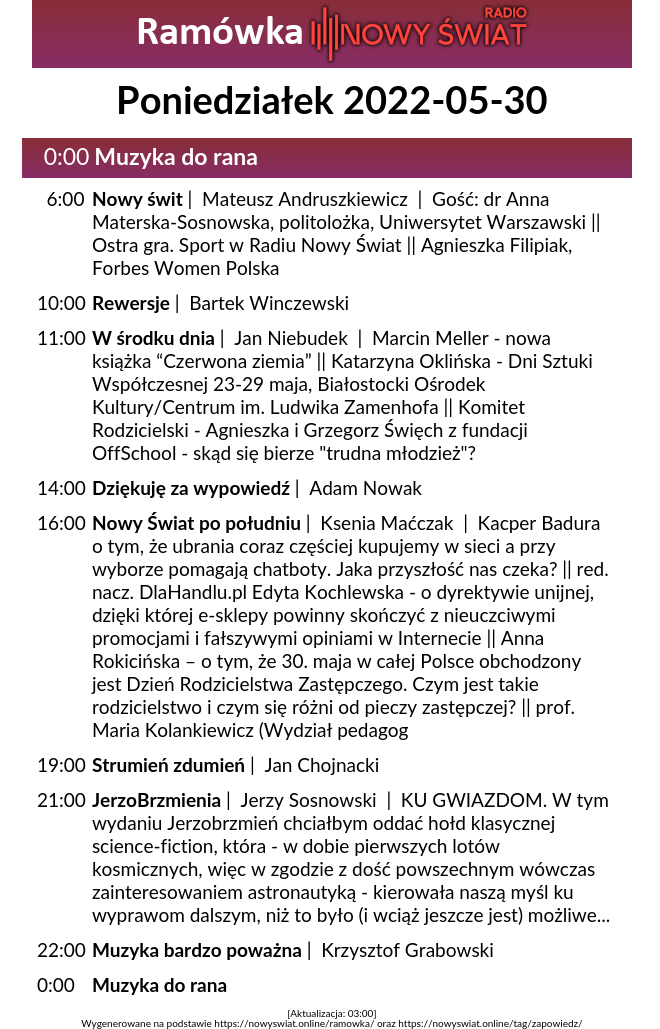
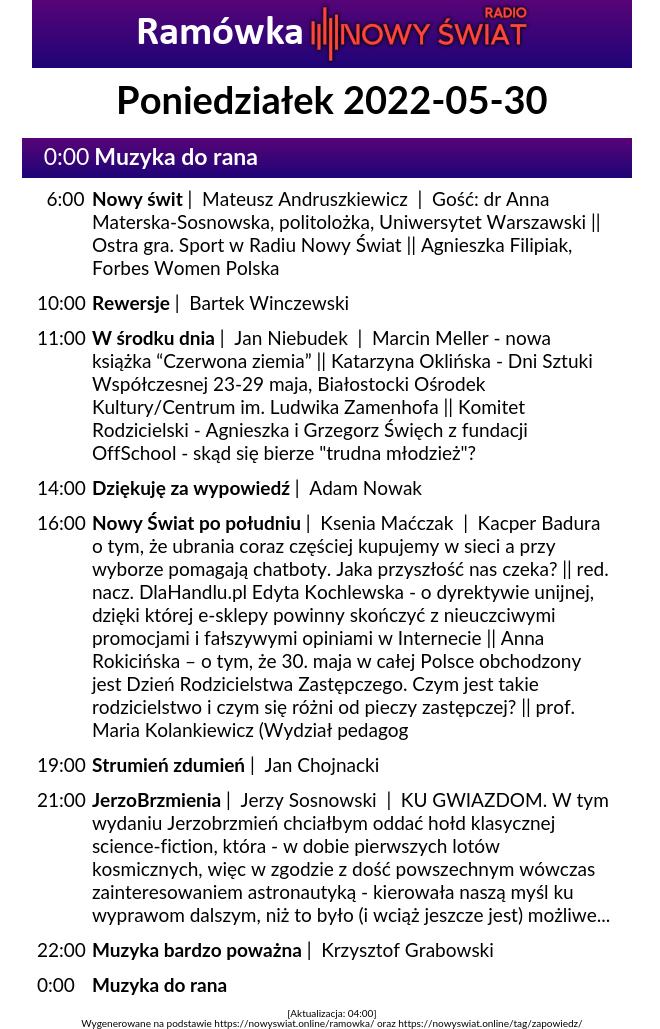
Regular auto-commit at 04:00:05 on 30/05/2022

Changed region(s): [[0.0303, 0.0, 0.9697, 0.0933], [0.0303, 0.1244, 0.9697, 0.1866]]

diff --git a/ramowka.html b/ramowka.html
@@ -26,7 +26,7 @@ img {
     margin: auto;
     text-align: center;
     background-color: #000;
-    background-image: linear-gradient(to bottom, #882D37 0%, #882D65 100%);
+    background-image: linear-gradient(to top, #1E0477 0%, #570477 100%);
 }
 .time {
     display: block;
@@ -75,7 +75,7 @@ h1 {
 <div class="image"><img src="static/logo.png"></div>
 <h1>Poniedziałek 2022-05-30</h1>
         <div id="container"
- style="font-size: larger; background-color: #882D37; color: white; padding: 5px 5px; text-align: left;" class="image">
+ style="font-size: larger; background-color: #1E0477; color: white; padding: 5px 5px; text-align: left;" class="image">
             <div class="time"><p >&nbsp;&nbsp;0:00</p></div>
             <div class="values">
             <p >
@@ -188,7 +188,7 @@ h1 {
             </div>
         </div>
 
-<p class="footer">[Aktualizacja: 03:00]<br/>Wygenerowane na podstawie https://nowyswiat.online/ramowka/ oraz https://nowyswiat.online/tag/zapowiedz/</p>
+<p class="footer">[Aktualizacja: 04:00]<br/>Wygenerowane na podstawie https://nowyswiat.online/ramowka/ oraz https://nowyswiat.online/tag/zapowiedz/</p>
 </div>
 </body>
 </html>

diff --git a/schedule.html b/schedule.html
@@ -84,7 +84,7 @@ img {
     <tr>
         <th colspan="9">
         <div class="container">
-          <div class="image"><img src="static/logo.png"><br/>Aktualizacja: 2022-05-30 03:00</div>
+          <div class="image"><img src="static/logo.png"><br/>Aktualizacja: 2022-05-30 04:00</div>
         </div>
         </th>
     </tr>
